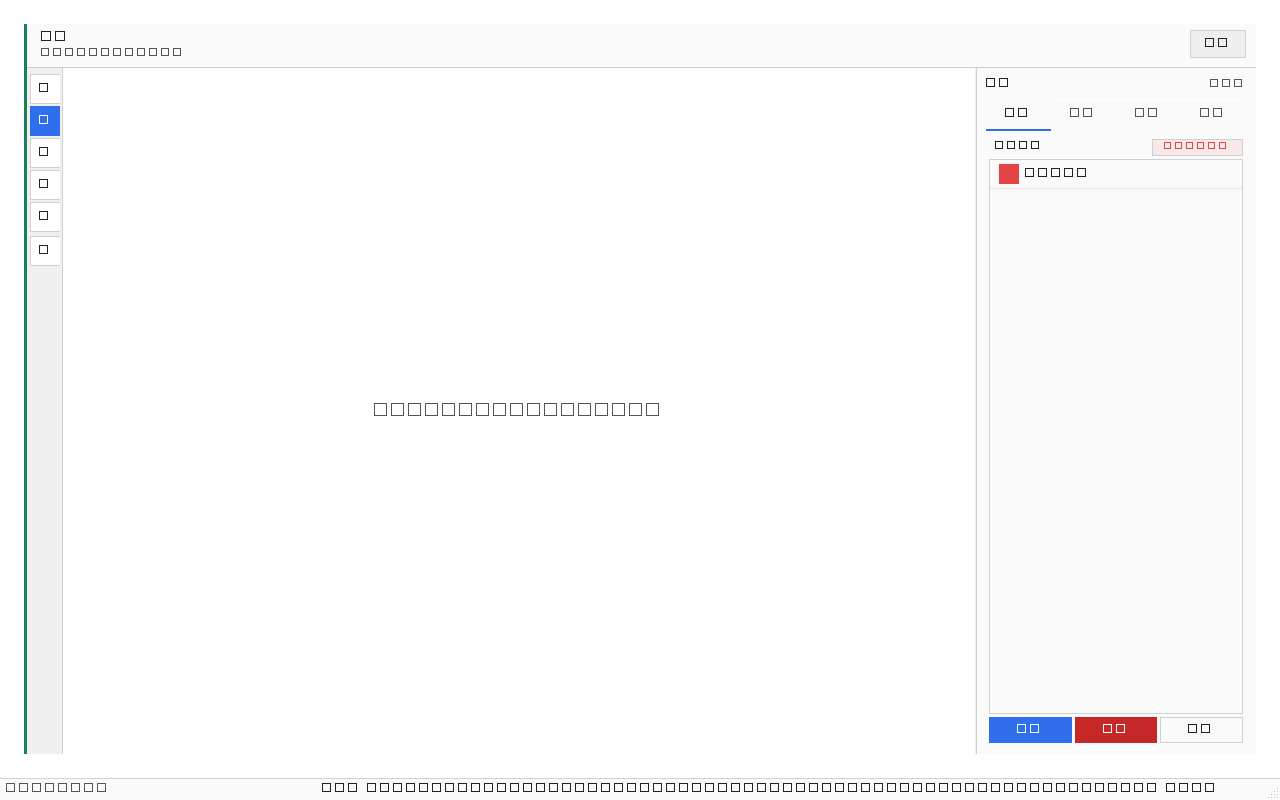
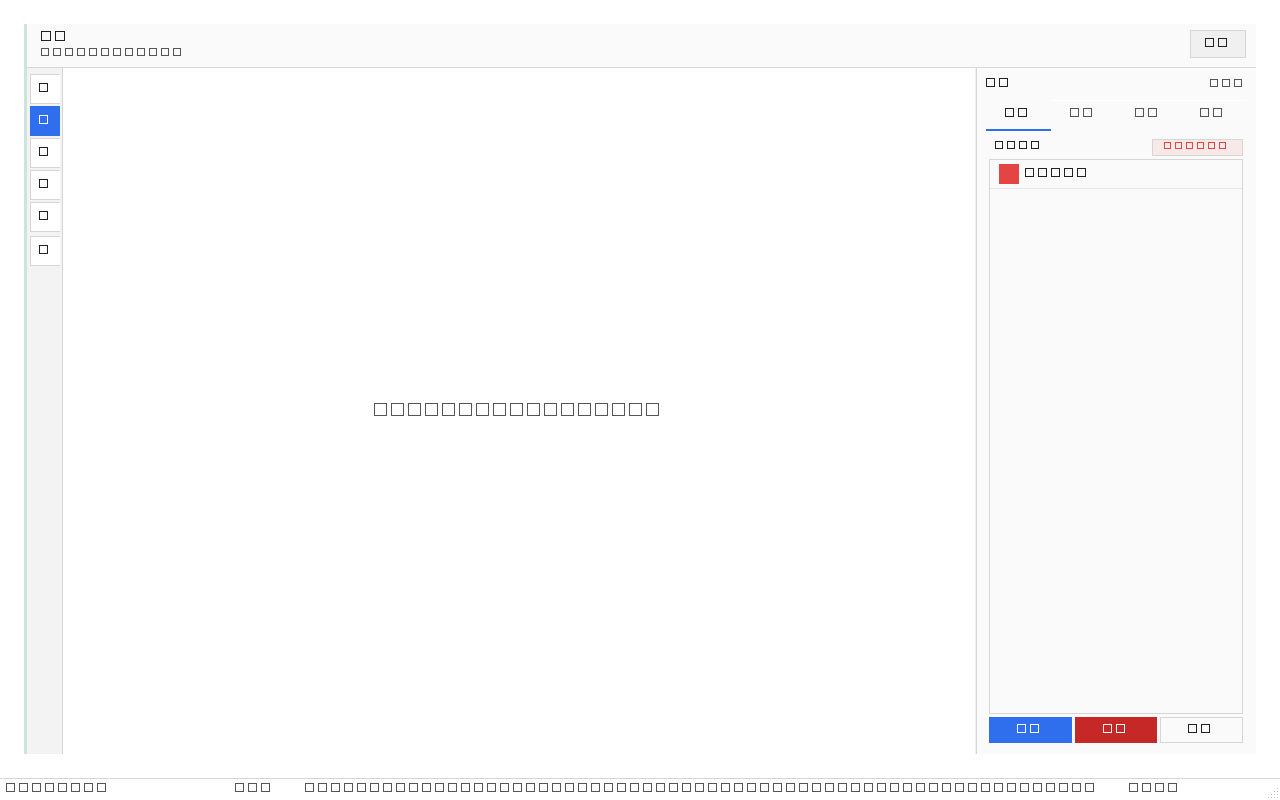
fix: 强调条改柔和浅色，状态栏去灰底，强制 Fusion 浅色

Changed region(s): [[0.25, 0.9688, 0.9375, 1.0]]

diff --git a/gui/theme.py b/gui/theme.py
@@ -8,13 +8,13 @@ from PyQt6.QtWidgets import QApplication
 
 
 class Theme:
-    BG = "#F5F5F5"
-    RAIL = "#F0F0F0"
+    BG = "#F7F7F7"
+    RAIL = "#F3F3F3"
     SURFACE = "#FAFAFA"
     SURFACE_2 = "#FFFFFF"
-    SURFACE_3 = "#EEEEEE"
-    BORDER = "#D0D0D0"
-    BORDER_STRONG = "#B8B8B8"
+    SURFACE_3 = "#F0F0F0"
+    BORDER = "#D6D6D6"
+    BORDER_STRONG = "#C0C0C0"
     TEXT = "#222222"
     TEXT_MUTED = "#555555"
     TEXT_DIM = "#777777"
@@ -28,8 +28,20 @@ class Theme:
     # Match white panels — no gray stage slab that reads as dark-mode leftover
     CANVAS_BG = "#FFFFFF"
     CANVAS_HINT = "#555555"
-    SCROLL_HANDLE = "#D0D0D0"
-    SCROLL_HANDLE_HOVER = "#BDBDBD"
+    SCROLL_HANDLE = "#D6D6D6"
+    SCROLL_HANDLE_HOVER = "#C4C4C4"
+
+
+def soften_hex(color: str, amount: float = 0.72) -> str:
+    """Blend a saturated accent toward white for light-theme chrome bars."""
+    c = QColor(color)
+    if not c.isValid():
+        return Theme.ACCENT
+    amount = max(0.0, min(1.0, amount))
+    r = int(round(c.red() + (255 - c.red()) * amount))
+    g = int(round(c.green() + (255 - c.green()) * amount))
+    b = int(round(c.blue() + (255 - c.blue()) * amount))
+    return QColor(r, g, b).name()
 
 
 def apply_light_palette(app: QApplication | None = None) -> None:
@@ -37,6 +49,11 @@ def apply_light_palette(app: QApplication | None = None) -> None:
     app = app or QApplication.instance()
     if app is None:
         return
+
+    try:
+        app.setStyle("Fusion")
+    except Exception:
+        pass
 
     try:
         app.styleHints().setColorScheme(Qt.ColorScheme.Light)
@@ -214,7 +231,7 @@ def build_stylesheet() -> str:
     }}
     QLabel#StatusPill {{
         color: {Theme.TEXT_MUTED};
-        background: {Theme.SURFACE_3};
+        background: {Theme.SURFACE_2};
         border: 1px solid {Theme.BORDER};
         border-radius: 0px;
         padding: 1px 6px;
@@ -574,9 +591,18 @@ def build_stylesheet() -> str:
         spacing: 4px;
     }}
     QStatusBar {{
-        background: {Theme.SURFACE};
+        background: {Theme.SURFACE_2};
         color: {Theme.TEXT_MUTED};
         border-top: 1px solid {Theme.BORDER};
+    }}
+    QStatusBar QLabel {{
+        background: transparent;
+        border: none;
+        color: {Theme.TEXT_MUTED};
+        padding: 0 6px;
+    }}
+    QStatusBar::item {{
+        border: none;
     }}
     QMenuBar {{
         background: {Theme.SURFACE};

diff --git a/gui/node_sheet.py b/gui/node_sheet.py
@@ -12,7 +12,7 @@ from PyQt6.QtWidgets import (
     QWidget,
 )
 
-from gui.theme import Theme
+from gui.theme import Theme, soften_hex
 
 
 class NodeSheet(QWidget):
@@ -32,7 +32,7 @@ class NodeSheet(QWidget):
         self._accent_bar = QFrame()
         self._accent_bar.setObjectName("NodeSheetAccent")
         self._accent_bar.setFixedWidth(3)
-        self._accent_bar.setStyleSheet(f"background: {self._accent}; border: none;")
+        self._set_accent_bar(self._accent)
         root.addWidget(self._accent_bar)
 
         main = QWidget()
@@ -81,7 +81,7 @@ class NodeSheet(QWidget):
             f"""
             QWidget#NodeSheet {{
                 background: {Theme.SURFACE_2};
-                border: 1px solid {Theme.BORDER_STRONG};
+                border: 1px solid {Theme.BORDER};
             }}
             QWidget#NodeSheetHeader {{
                 background: {Theme.SURFACE};
@@ -93,13 +93,18 @@ class NodeSheet(QWidget):
             """
         )
 
+    def _set_accent_bar(self, accent: str) -> None:
+        # Soft pastel strip — saturated stage colors read as dark-mode leftovers on light chrome.
+        soft = soften_hex(accent, amount=0.78)
+        self._accent_bar.setStyleSheet(f"background: {soft}; border: none;")
+
     def set_meta(self, title: str, subtitle: str = "", accent: str | None = None) -> None:
         self.title_label.setText(title)
         self.subtitle_label.setText(subtitle)
         self.subtitle_label.setVisible(bool(subtitle))
         if accent:
             self._accent = accent
-            self._accent_bar.setStyleSheet(f"background: {accent}; border: none;")
+            self._set_accent_bar(accent)
 
     def set_body(self, widget: QWidget) -> None:
         while self.body_layout.count():

diff --git a/gui/workflow_canvas_panel.py b/gui/workflow_canvas_panel.py
@@ -36,7 +36,7 @@ from PyQt6.QtWidgets import (
     QWidget,
 )
 
-from gui.theme import Theme
+from gui.theme import Theme, soften_hex
 
 
 @dataclass(frozen=True)
@@ -212,10 +212,10 @@ class WorkflowNode(QGraphicsRectItem):
         self.setPen(QPen(QColor(Theme.BORDER), 1.2))
         self.setCursor(Qt.CursorShape.OpenHandCursor)
 
-        accent_w = 3 if kind == "sub" else 3
-        accent_color = QColor(spec.accent)
+        accent_w = 3
+        accent_color = QColor(soften_hex(spec.accent, amount=0.55))
         if kind != "main":
-            accent_color.setAlpha(180)
+            accent_color.setAlpha(200)
         self._accent = QGraphicsRectItem(0, 0, accent_w, h, self)
         self._accent.setBrush(QBrush(accent_color))
         self._accent.setPen(QPen(Qt.PenStyle.NoPen))

diff --git a/main.py b/main.py
@@ -75,7 +75,11 @@ def main():
 
     # 创建应用
     app = QApplication(sys.argv)
-    # Pin light color scheme before any widget is created (blocks Windows dark bleed).
+    # Pin light chrome before any widget is created (blocks Windows dark bleed).
+    try:
+        app.setStyle("Fusion")
+    except Exception:
+        pass
     try:
         from PyQt6.QtCore import Qt as _Qt
 
